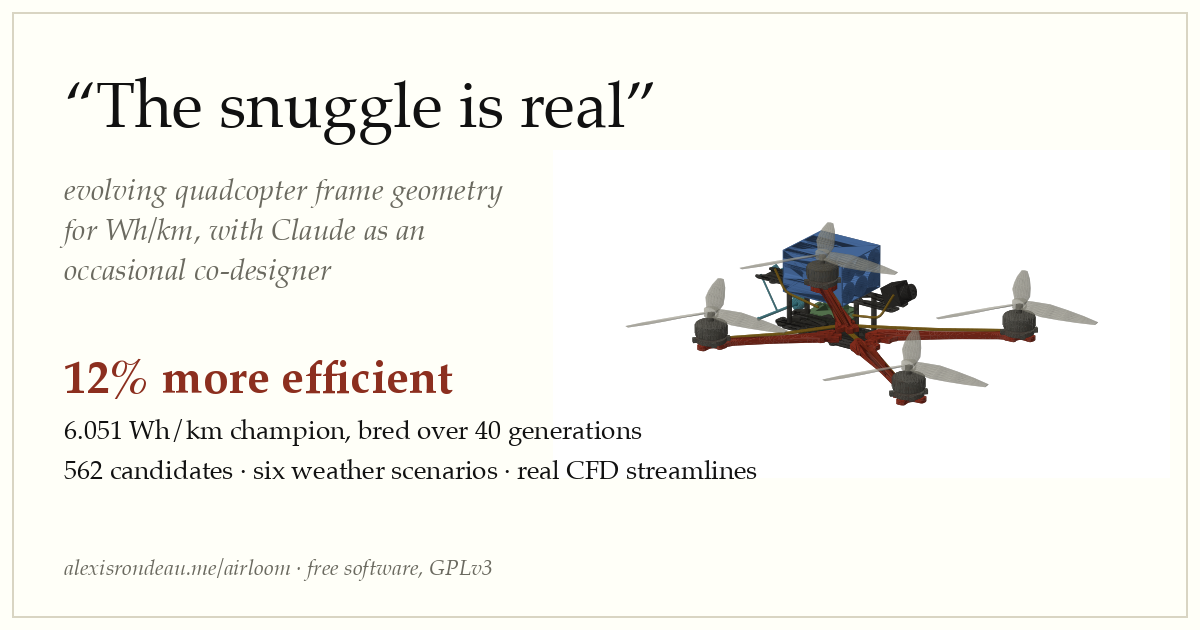
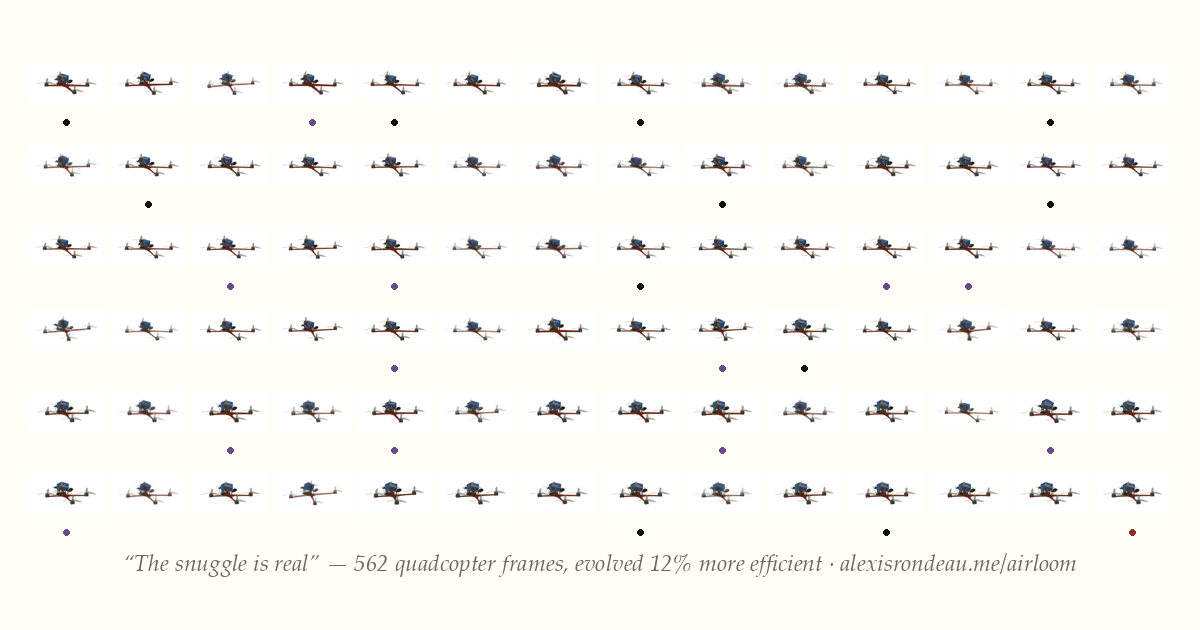
Share card: a Tufte small-multiples plate of the run
share.png is now 84 real candidates on bare paper -- no boxes, no
borders, whitespace as the only separator, whole frames at uniform
scale so silhouettes compare. Data-ink marks only: a small dot beneath
the special frames (ink = best-so-far setter, purple = claude-designed,
rust = champion) and one italic caption line with the count, the
improvement, and the URL. Rebuilt per run like every artifact.

diff --git a/src/airloom/landing.py b/src/airloom/landing.py
@@ -195,20 +195,23 @@ AL.ensureBlobs(need).then(function(){
 SITE_URL = "https://alexisrondeau.me/airloom/"
 
 
-def write_share_card(results_dir: Path, champ_png: str | None,
+def write_share_card(results_dir: Path, store, run_id: str,
+                     cands: dict, champ_hash: str,
                      improvement: float | None, champ_fit: float,
-                     n_gens: int, n_cands: int) -> Path | None:
-    """share.png (1200x630): the social card, rebuilt with the landing
-    so it always shows the CURRENT champion. Paper background, the
-    title, the headline stat, and the champion's render."""
+                     n_gens: int) -> Path | None:
+    """share.png (1200x630): a Tufte-style small-multiples plate --
+    the run AS a grid of real candidates, one discreet caption line.
+    Setters invert to ink, claude-designed frames carry the purple
+    ring, the champion the accent ring."""
     try:
         from PIL import Image, ImageDraw, ImageFont
     except ImportError:
         return None
+    import math as _math
 
     paper, ink = (255, 255, 248), (17, 17, 17)
     muted, accent = (107, 106, 96), (140, 47, 31)
-    rule = (217, 213, 195)
+    rule, claude = (222, 218, 202), (106, 74, 138)
 
     def font(size: int, face: int = 0):
         for path, idx in (("/System/Library/Fonts/Palatino.ttc", face),
@@ -224,33 +227,76 @@ def write_share_card(results_dir: Path, champ_png: str | None,
     im = Image.new("RGB", (W, H), paper)
     dr = ImageDraw.Draw(im)
 
-    # the champion render fills the right half (its background IS paper)
-    if champ_png and Path(champ_png).exists():
-        r = Image.open(champ_png).convert("RGB")
-        r.thumbnail((640, 560))
-        im.paste(r, (W - r.width - 30, (H - r.height) // 2))
+    ordered, seen = [], set()
+    setters, best = set(), _math.inf
+    for c in store.candidates_in_eval_order(run_id):
+        h = c["hash"]
+        if h in seen or not c["png_path"]:
+            continue
+        seen.add(h)
+        ordered.append(h)
+        f = store.fitness_of(c)
+        if _math.isfinite(f) and f < best:
+            best = f
+            setters.add(h)
 
-    x = 64
-    dr.text((x, 74), "“The snuggle is real”",
-            font=font(64), fill=ink)
-    sub = ["evolving quadcopter frame geometry",
-           "for Wh/km, with Claude as an",
-           "occasional co-designer"]
-    for i, line in enumerate(sub):
-        dr.text((x, 175 + i * 40), line, font=font(30, 1), fill=muted)
-    y = 355
-    if improvement is not None:
-        dr.text((x, y), f"{improvement:.0f}% more efficient",
-                font=font(46, 2), fill=accent)
-        y += 62
-    dr.text((x, y), f"{champ_fit:.3f} Wh/km champion, bred over "
-            f"{n_gens} generations", font=font(26), fill=ink)
-    dr.text((x, y + 40), f"{n_cands} candidates · six weather "
-            "scenarios · real CFD streamlines",
-            font=font(26), fill=ink)
-    dr.text((x, H - 74), "alexisrondeau.me/airloom · free software, "
-            "GPLv3", font=font(22, 1), fill=muted)
-    dr.rectangle([12, 12, W - 13, H - 13], outline=rule, width=2)
+    COLS, ROWS, gap = 14, 6, 5
+    margin, cap_h = 26, 44
+    cell = min((W - 2 * margin - (COLS - 1) * gap) // COLS,
+               (H - 2 * margin - cap_h - (ROWS - 1) * gap) // ROWS)
+    gw = COLS * cell + (COLS - 1) * gap
+    gh = ROWS * cell + (ROWS - 1) * gap
+    gx0 = (W - gw) // 2
+    gy0 = (H - cap_h - gh) // 2
+    n_cells = COLS * ROWS
+
+    def sample(pool, k):
+        if len(pool) <= k:
+            return list(pool)
+        return [pool[int(i * len(pool) / k)] for i in range(k)]
+
+    setter_pick = sample([h for h in ordered
+                          if h in setters and h != champ_hash], 10)
+    claude_pick = sample([h for h in ordered
+                          if cands[h]["operator"] == "designer"
+                          and h not in setters and h != champ_hash], 6)
+    forced = set(setter_pick) | set(claude_pick) | {champ_hash}
+    rest = [h for h in ordered if h not in forced]
+    fill = sample(rest, n_cells - len(forced))
+    order_idx = {h: i for i, h in enumerate(ordered)}
+    sel = sorted(forced | set(fill), key=lambda h: order_idx[h])
+    sel = sel[:n_cells]
+
+    for i, h in enumerate(sel):
+        r, c9 = divmod(i, COLS)
+        x = gx0 + c9 * (cell + gap)
+        y = gy0 + r * (cell + gap)
+        try:
+            th = Image.open(cands[h]["png_path"]).convert("RGB")
+            th.thumbnail((cell, cell - 8))
+            im.paste(th, (x + (cell - th.width) // 2,
+                          y + (cell - 8 - th.height) // 2))
+        except OSError:
+            continue
+        # data-ink only: a small dot beneath marks the special frames
+        mark = (accent if h == champ_hash
+                else ink if h in setters
+                else claude if cands[h]["operator"] == "designer"
+                else None)
+        if mark:
+            mx, my = x + cell // 2, y + cell - 4
+            dr.ellipse([mx - 3, my - 3, mx + 3, my + 3], fill=mark)
+
+    # one discreet caption line, the Tufte way
+    cap_y = gy0 + gh + 16
+    cap = ("\u201cThe snuggle is real\u201d \u2014 "
+           f"{len(cands)} quadcopter frames, evolved"
+           + (f" {improvement:.0f}% more efficient"
+              if improvement is not None else "")
+           + " \u00b7 alexisrondeau.me/airloom")
+    fnt = font(23, 1)
+    tw = dr.textlength(cap, font=fnt)
+    dr.text(((W - tw) / 2, cap_y), cap, font=fnt, fill=muted)
 
     out = results_dir / "share.png"
     im.save(out)
@@ -297,8 +343,8 @@ def write_landing(store: Store, run_id: str, results_dir: Path) -> Path:
                          and math.isfinite(base_fit) and base_fit > 0
                          else None)
     if champ_hash is not None:
-        write_share_card(results_dir, champ_png_path, improvement_early,
-                         champ_fit, n_gens, len(cands))
+        write_share_card(results_dir, store, run_id, cands, champ_hash,
+                         improvement_early, champ_fit, n_gens)
     og_title = ("\u201cThe snuggle is real\u201d \u2014 evolving "
                 "quadcopter frame geometry for Wh/km")
     og_desc = ("A genetic algorithm with Claude as an occasional "